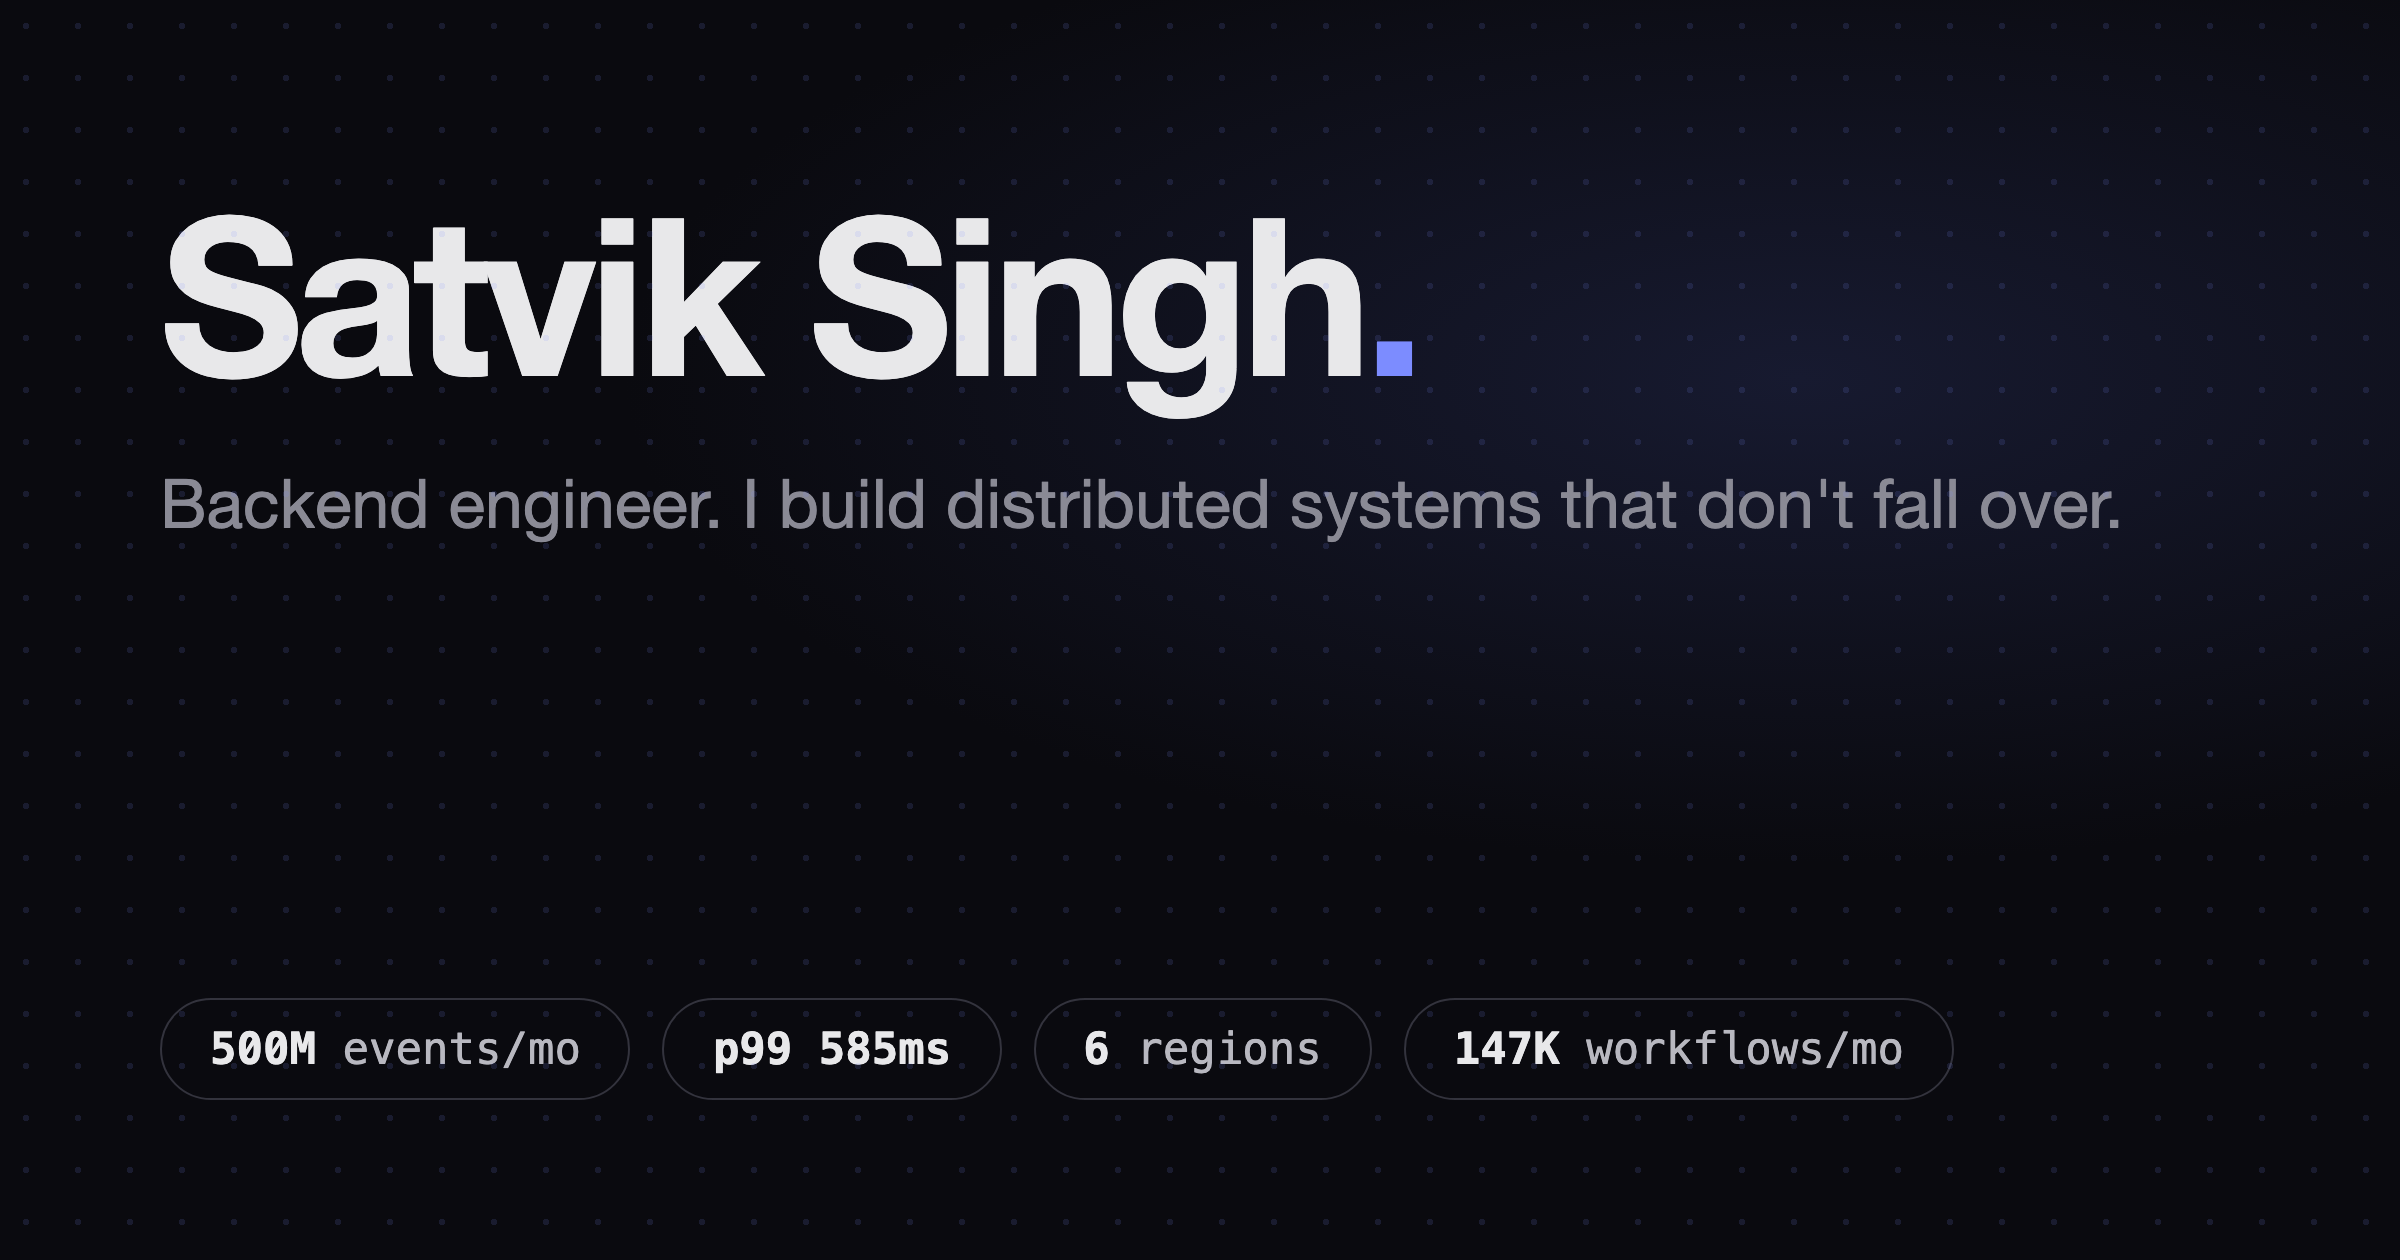
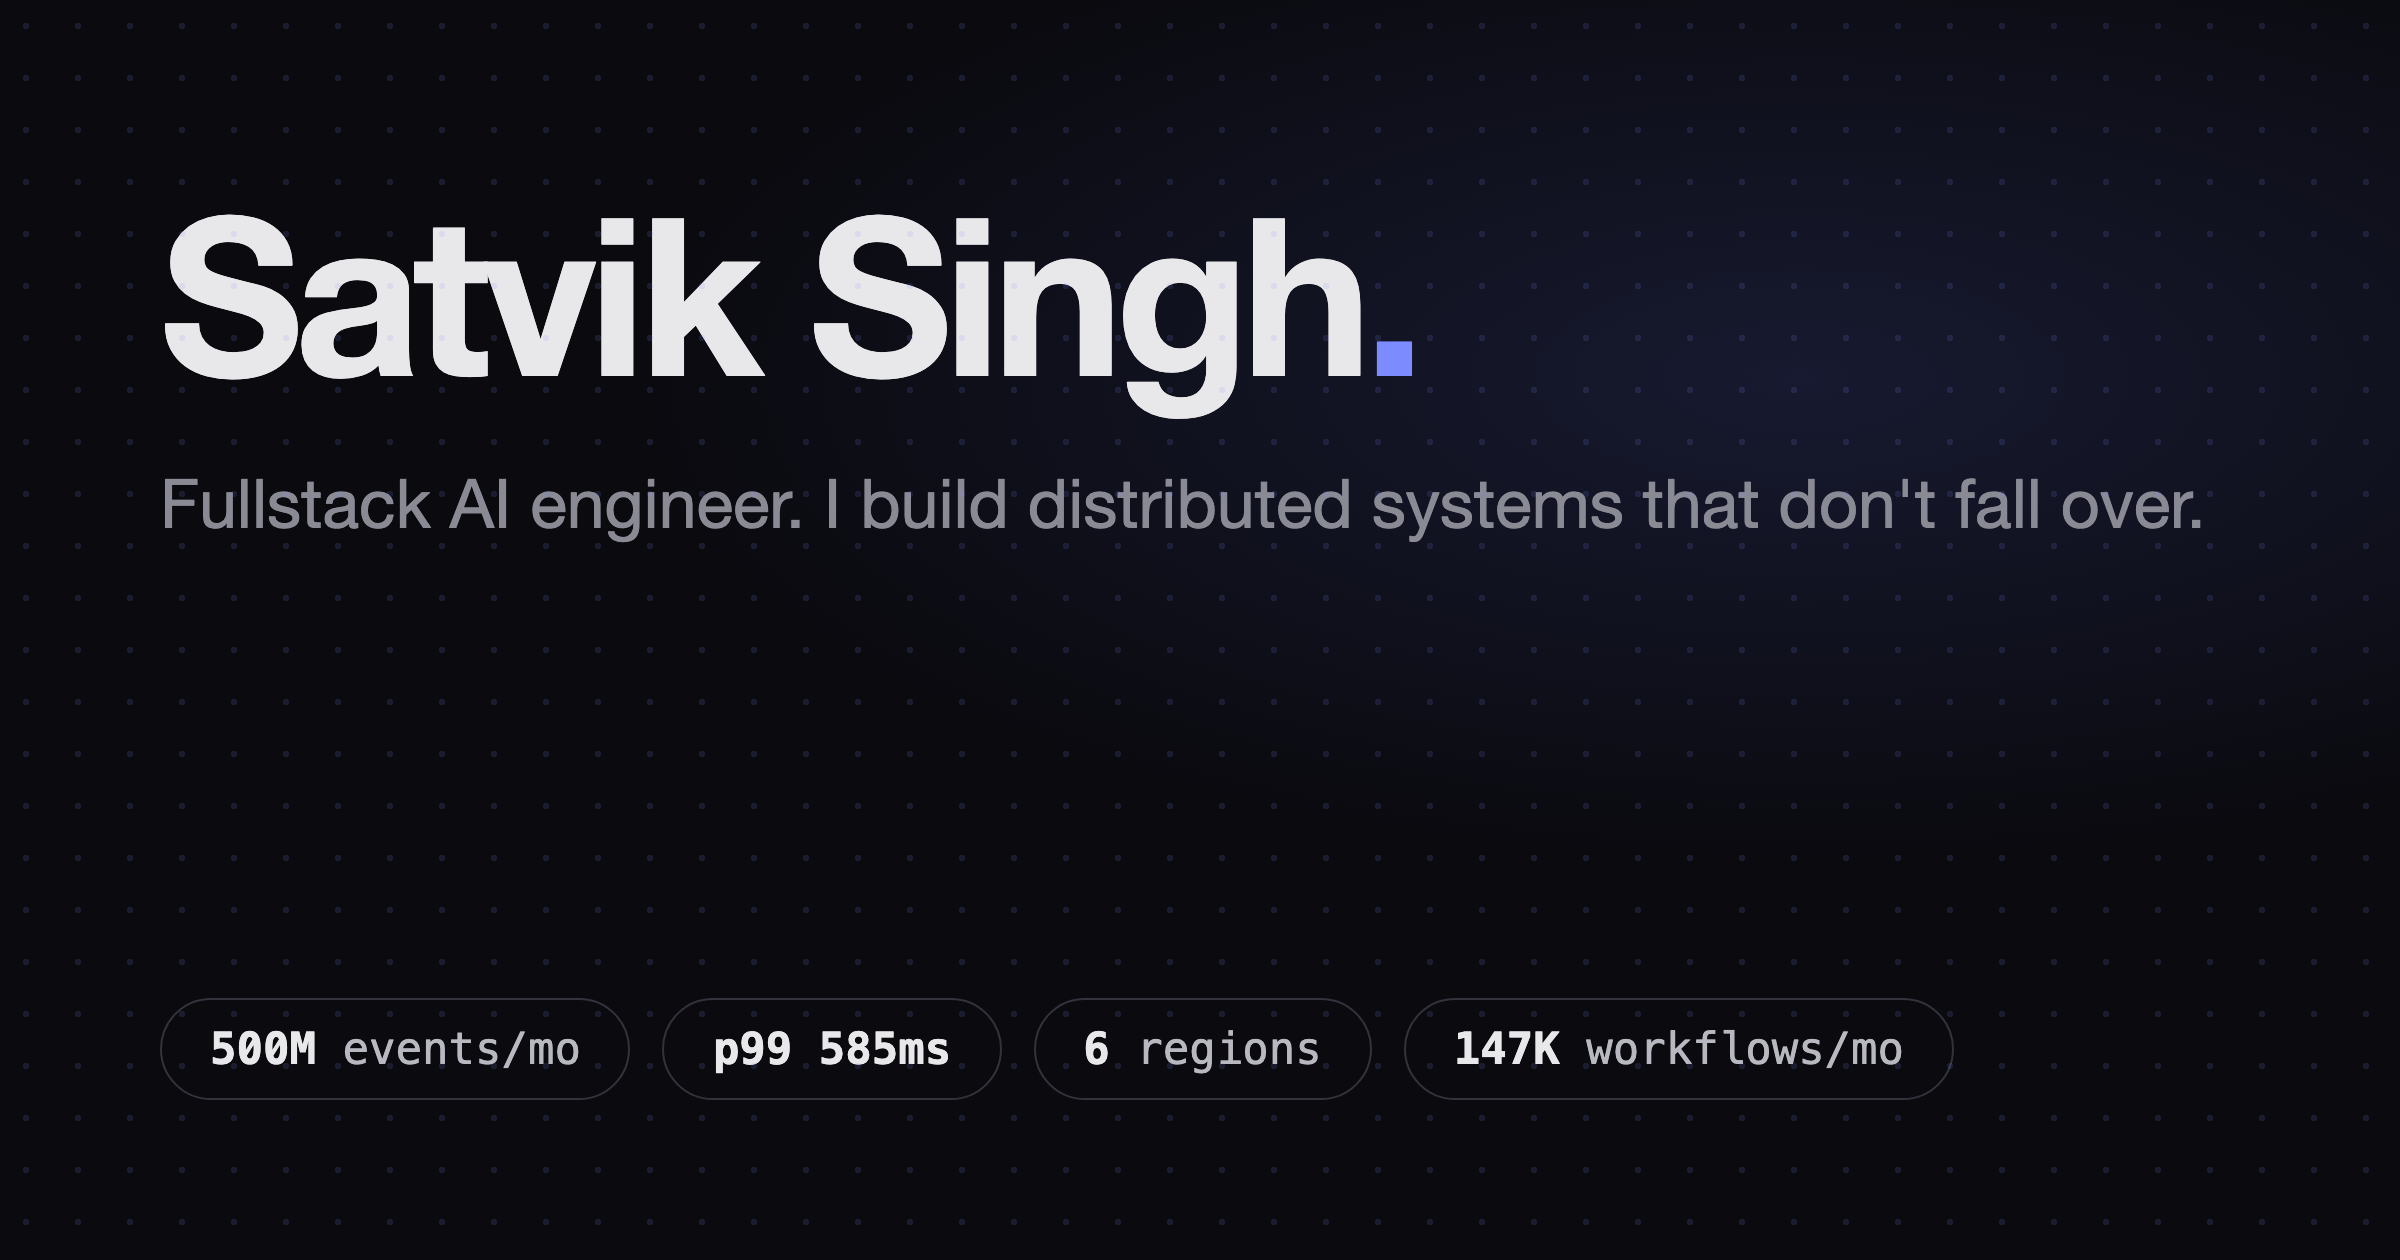
feat: round-4 feedback
- identity: fullstack AI engineer across tagline, about, whoami, OG
- about scene: back to the indigo globe (portrait sampling loses to a busy
  photo background); portrait formation kept for a future cleaner headshot
- personal: Tessera added; rows expand with animated detail panels
- fix jumpy background after palette/terminal nav: hover-restore no longer
  touches formation, and the morpher seeds the correct section base on mount
- helix diffused so additive blending stays golden instead of white-hot

Changed region(s): [[0.0625, 0.3714, 0.9062, 0.4333]]

diff --git a/src/content/misc.ts b/src/content/misc.ts
@@ -1,26 +1,38 @@
 export type MiscItem = {
   title: string
   blurb: string
+  detail: string
   tags: string[]
+  link?: { label: string; href: string }
 }
 
 export const miscItems: MiscItem[] = [
   {
+    title: 'Tessera',
+    blurb: 'Founding a compliance startup for AI agents in export-controlled environments.',
+    detail:
+      'Early-stage and heads-down: SaaS that helps defense-adjacent companies keep AI agents compliant with deemed-export rules, tracking what code and data an agent can touch and proving it to auditors. Go backend, React front, building nights and weekends.',
+    tags: ['founder', 'Go', 'React', 'compliance'],
+  },
+  {
     title: 'InvestIQ (stockApp)',
-    blurb:
-      'My ET Money subscription lapsed, so I built the thing myself: multi-factor stock scoring, ML predictions, portfolio optimization, SIP planning, swing signals, and an automated trading engine with 6-layer risk validation. Dockerized PWA.',
+    blurb: 'My ET Money subscription lapsed, so I built the thing myself.',
+    detail:
+      'Multi-factor stock scoring, ML predictions with walk-forward validation, portfolio optimization, SIP planning, swing signals, and an automated trading engine with 6-layer risk validation, GTT and trailing stops, a circuit breaker, and a kill switch. Dockerized PWA I use daily.',
     tags: ['Python', 'React', 'ML', 'trading'],
   },
   {
     title: 'graphify',
-    blurb:
-      'Knowledge-graph tooling for codebases: god nodes, community detection, query/path/explain. Indexed and adopted across 40+ service repos.',
+    blurb: 'Knowledge-graph tooling for codebases, adopted across 40+ repos.',
+    detail:
+      'Turns any repo into a persistent knowledge graph: god nodes, community detection, and query/path/explain commands that return a scoped subgraph instead of grep noise. Became the default way my team asks architecture questions of unfamiliar services.',
     tags: ['DevEx', 'knowledge graphs', 'CLI'],
   },
   {
     title: 'On-call triage stack',
-    blurb:
-      'Incident tooling that pulls alerts, traces, and logs into one triage flow, plus automated daily alert summaries per service.',
+    blurb: 'Incident tooling that makes 3am pages less miserable.',
+    detail:
+      'Pulls alerts, traces, and logs into one triage flow with per-service runbooks, plus automated daily alert summaries posted per service. Built out of frustration during an on-call rotation; now part of how the team runs incidents.',
     tags: ['observability', 'incident response'],
   },
 ]

diff --git a/src/components/scene/SectionMorpher.tsx b/src/components/scene/SectionMorpher.tsx
@@ -1,33 +1,48 @@
 'use client'
 
 import { useEffect } from 'react'
-import { portraitReady, preloadPortrait, type Formation } from '@/components/scene/formations'
+import type { Formation } from '@/components/scene/formations'
 import { setSceneBase } from '@/components/scene/sceneStore'
 import { prefersReducedMotion } from '@/lib/motion'
 
 const SECTION_FORMATIONS: Record<string, { formation: Formation; intensity: number; accent: string }> = {
   hero: { formation: 'name', intensity: 1, accent: '#7c8cff' },
-  about: { formation: 'sphere', intensity: 0.32, accent: '#7c8cff' },
+  about: { formation: 'sphere', intensity: 0.5, accent: '#7c8cff' },
   work: { formation: 'lattice', intensity: 0.45, accent: '#58c48f' },
-  personal: { formation: 'helix', intensity: 0.55, accent: '#f0b35e' },
+  personal: { formation: 'helix', intensity: 0.4, accent: '#f0b35e' },
   writing: { formation: 'ambient', intensity: 0.5, accent: '#5ac8dd' },
   contact: { formation: 'vortex', intensity: 1, accent: '#f27a8a' },
+}
+
+function applySection(id: string) {
+  const conf = SECTION_FORMATIONS[id]
+  if (conf) setSceneBase({ formation: conf.formation, intensity: conf.intensity, accent: conf.accent })
 }
 
 export default function SectionMorpher() {
   useEffect(() => {
     if (prefersReducedMotion()) return
-    preloadPortrait()
+    // establish the correct base immediately (covers back-nav scroll restoration
+    // landing between sections, where the observer threshold may not fire)
+    const mid = window.innerHeight / 2
+    let bestId = 'hero'
+    let bestDist = Infinity
+    for (const id of Object.keys(SECTION_FORMATIONS)) {
+      const r = document.getElementById(id)?.getBoundingClientRect()
+      if (!r) continue
+      const center = r.top + r.height / 2
+      const dist = Math.abs(center - mid)
+      if (dist < bestDist) {
+        bestDist = dist
+        bestId = id
+      }
+    }
+    applySection(bestId)
+
     const observer = new IntersectionObserver(
       (entries) => {
         for (const entry of entries) {
-          if (!entry.isIntersecting) continue
-          const conf = SECTION_FORMATIONS[entry.target.id]
-          if (conf) {
-            const formation =
-              entry.target.id === 'about' && portraitReady() ? ('portrait' as Formation) : conf.formation
-            setSceneBase({ formation, intensity: conf.intensity, accent: conf.accent })
-          }
+          if (entry.isIntersecting) applySection(entry.target.id)
         }
       },
       { threshold: 0.4 },

diff --git a/src/components/sections/PersonalRow.tsx b/src/components/sections/PersonalRow.tsx
@@ -1,0 +1,56 @@
+'use client'
+
+import { useState } from 'react'
+import { restoreSceneBase, setScene } from '@/components/scene/sceneStore'
+import type { MiscItem } from '@/content/misc'
+
+export default function PersonalRow({ item }: { item: MiscItem }) {
+  const [open, setOpen] = useState(false)
+
+  return (
+    <div
+      className="group"
+      onMouseEnter={() => setScene({ intensity: 0.75, accent: '#f0b35e' })}
+      onMouseLeave={() => restoreSceneBase()}
+    >
+      <button
+        onClick={() => setOpen((o) => !o)}
+        aria-expanded={open}
+        className="flex w-full flex-col gap-2 rounded-lg px-2 py-6 text-left transition-colors group-hover:bg-fg/5 md:flex-row md:items-baseline md:gap-8"
+      >
+        <span className="flex w-56 shrink-0 items-baseline gap-3">
+          <span
+            className={`inline-block font-mono text-xs text-amber transition-transform duration-300 ${open ? 'rotate-90' : ''}`}
+          >
+            ›
+          </span>
+          <span className="font-display text-lg font-semibold transition-colors group-hover:text-amber">
+            {item.title}
+          </span>
+        </span>
+        <span className="flex-1 text-muted">{item.blurb}</span>
+        <span className="shrink-0 font-mono text-xs text-muted/70">{item.tags.join(' · ')}</span>
+      </button>
+      <div
+        className="grid transition-[grid-template-rows] duration-500 ease-out"
+        style={{ gridTemplateRows: open ? '1fr' : '0fr' }}
+      >
+        <div className="overflow-hidden">
+          <div className="px-2 pb-7 pl-[4.25rem] md:pr-40">
+            <p className="max-w-2xl leading-relaxed text-muted">{item.detail}</p>
+            {item.link && (
+              <a
+                href={item.link.href}
+                target="_blank"
+                rel="noopener noreferrer"
+                className="mt-3 inline-block font-mono text-xs text-amber underline-offset-4 hover:underline"
+              >
+                {item.link.label} →
+              </a>
+            )}
+          </div>
+        </div>
+      </div>
+    </div>
+  )
+}

diff --git a/src/components/sections/Misc.tsx b/src/components/sections/Misc.tsx
@@ -1,5 +1,5 @@
+import PersonalRow from '@/components/sections/PersonalRow'
 import Reveal from '@/components/ui/Reveal'
-import GlowRow from '@/components/ui/GlowRow'
 import SectionHeading from '@/components/ui/SectionHeading'
 import { miscItems } from '@/content/misc'
 
@@ -10,15 +10,7 @@ export default function Misc() {
       <div className="mt-14 divide-y divide-fg/10">
         {miscItems.map((item, i) => (
           <Reveal key={item.title} delay={i * 0.06}>
-            <GlowRow accent="#f0b35e" className="group">
-              <div className="flex flex-col gap-2 rounded-lg px-2 py-6 transition-colors group-hover:bg-fg/5 md:flex-row md:items-baseline md:gap-8">
-                <h3 className="w-56 shrink-0 font-display text-lg font-semibold transition-colors group-hover:text-amber">
-                  {item.title}
-                </h3>
-                <p className="flex-1 text-muted">{item.blurb}</p>
-                <span className="shrink-0 font-mono text-xs text-muted/70">{item.tags.join(' · ')}</span>
-              </div>
-            </GlowRow>
+            <PersonalRow item={item} />
           </Reveal>
         ))}
       </div>

diff --git a/src/components/sections/About.tsx b/src/components/sections/About.tsx
@@ -32,9 +32,10 @@ export default function About() {
               />
             )}
             <p>
-              I'm a backend engineer with 3 years building Go and TypeScript microservices for enterprise
+              I'm a fullstack AI engineer with 3 years building Go and TypeScript systems for enterprise
               cyber-risk platforms. I've founded two services from scratch and now own the risk-scoring engine
-              and the workflow automation platform at Safe Security.
+              and the workflow automation platform at Safe Security, from React workflow builders down to LLM
+              pipelines and the infrastructure underneath.
             </p>
             <p>
               My work lives where correctness meets scale: event-driven pipelines, multi-tenant data isolation,

diff --git a/src/components/scene/formations.ts b/src/components/scene/formations.ts
@@ -156,9 +156,10 @@ export function helix(count: number): Float32Array {
     const t = (i / count) * Math.PI * 6
     const strand = i % 2
     const phase = t + strand * Math.PI
-    arr[i * 3] = (i / count - 0.5) * 10 + (Math.random() - 0.5) * 0.2
-    arr[i * 3 + 1] = Math.sin(phase) * 1.7 + (Math.random() - 0.5) * 0.25
-    arr[i * 3 + 2] = Math.cos(phase) * 1.7 + (Math.random() - 0.5) * 0.25
+    // wide jitter keeps the additive blend from whiting out along the strands
+    arr[i * 3] = (i / count - 0.5) * 11 + (Math.random() - 0.5) * 0.5
+    arr[i * 3 + 1] = Math.sin(phase) * 1.8 + (Math.random() - 0.5) * 0.8
+    arr[i * 3 + 2] = Math.cos(phase) * 1.8 + (Math.random() - 0.5) * 0.8
   }
   return arr
 }

diff --git a/src/lib/site.ts b/src/lib/site.ts
@@ -1,9 +1,9 @@
 export const site = {
   name: 'Satvik Singh',
   title: 'Satvik Singh, Backend Engineer',
-  tagline: "Backend engineer. I build distributed systems that don't fall over.",
+  tagline: "Fullstack AI engineer. I build distributed systems that don't fall over.",
   description:
-    'Go microservices, distributed systems, and the platforms behind them: risk scoring at 500M events/month, workflow automation at 147K runs/month.',
+    'Distributed systems, AI pipelines, and the platforms behind them: risk scoring at 500M events/month, workflow automation at 147K runs/month.',
   email: 'satvik19nitm@gmail.com',
   github: 'https://github.com/zen7vik',
   medium: 'https://medium.com/@satvik19nitm',

diff --git a/src/components/scene/sceneStore.ts b/src/components/scene/sceneStore.ts
@@ -36,9 +36,12 @@ export function setSceneBase(partial: Partial<Pick<SceneState, 'formation' | 'in
   notify()
 }
 
-/** Return to the current section's resting state (ends a hover). */
+/** Return to the current section's resting state (ends a hover).
+ *  Only intensity and accent: hovers never change the formation, so
+ *  restoring one must never trigger a morph either. */
 export function restoreSceneBase(): void {
-  Object.assign(state, base)
+  state.intensity = base.intensity
+  state.accent = base.accent
   notify()
 }
 

diff --git a/tests/e2e/smoke.spec.ts b/tests/e2e/smoke.spec.ts
@@ -25,7 +25,7 @@ test('terminal opens, runs commands, navigates', async ({ page }) => {
   await expect(input).toBeVisible()
   await input.fill('whoami')
   await page.keyboard.press('Enter')
-  await expect(page.getByText('Backend engineer · Go · distributed systems')).toBeVisible()
+  await expect(page.getByText('Fullstack AI engineer · Go · TypeScript · distributed systems')).toBeVisible()
   await input.fill('open risk-engine')
   await page.keyboard.press('Enter')
   await expect(page).toHaveURL(/work\/risk-engine/)

diff --git a/src/components/scene/Particles.tsx b/src/components/scene/Particles.tsx
@@ -64,7 +64,7 @@ const fragmentShader = /* glsl */ `
     if (r > 0.5) discard;
     float alpha = smoothstep(0.5, 0.05, r) * (0.55 + 0.45 * vRand);
     vec3 col = mix(uColBase, uAccent, vRand * vRand);
-    float dim = clamp(0.12 + 0.88 * uIntensity, 0.0, 1.3);
+    float dim = clamp(0.12 + 0.88 * uIntensity, 0.0, 1.15);
     gl_FragColor = vec4(col * (0.85 + 0.3 * uIntensity), alpha * 0.35 * dim);
   }
 `

diff --git a/src/components/terminal/commands.ts b/src/components/terminal/commands.ts
@@ -34,7 +34,7 @@ export function runCommand(input: string, ctx: CmdContext): CmdResult {
       return {
         lines: [
           'Satvik Singh',
-          'Backend engineer · Go · distributed systems',
+          'Fullstack AI engineer · Go · TypeScript · distributed systems',
           '500M events/mo scoring engine · 147K workflows/mo platform · 6 regions',
         ],
       }

diff --git a/tests/unit/commands.test.ts b/tests/unit/commands.test.ts
@@ -17,7 +17,7 @@ describe('runCommand', () => {
   })
 
   it('whoami describes the engineer', () => {
-    expect(runCommand('whoami', ctx).lines.join(' ')).toContain('Backend engineer')
+    expect(runCommand('whoami', ctx).lines.join(' ')).toContain('Fullstack AI engineer')
   })
 
   it('ls work/ lists case slugs', () => {
